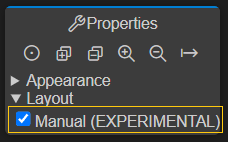
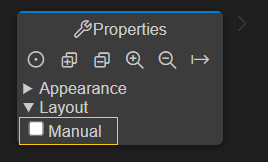
RIC-1443: Doc update

diff --git a/docs-sources/working-with-art/diagrams.md b/docs-sources/working-with-art/diagrams.md
@@ -51,9 +51,6 @@ If you want to use manual layout for a diagram, click in the diagram background,
 
 ![](images/manual-layout.png)
 
-!!! note 
-    Manual layout is currently an experimental feature. You are welcome to try it out but the feature is still under development and may not fully work in all situations.
-
 Once you have turned on manual layout for a diagram you can start to move symbols around, as you like to achieve a nice-looking layout. You can also move the text labels of some symbols and lines to avoid that they overlap with other graphical elements on the diagram.
 
 With manual layout it's also possible to resize some kinds of symbols. Yellow "resize" handles at symbol corners will appear for a selected symbol that can be resized: